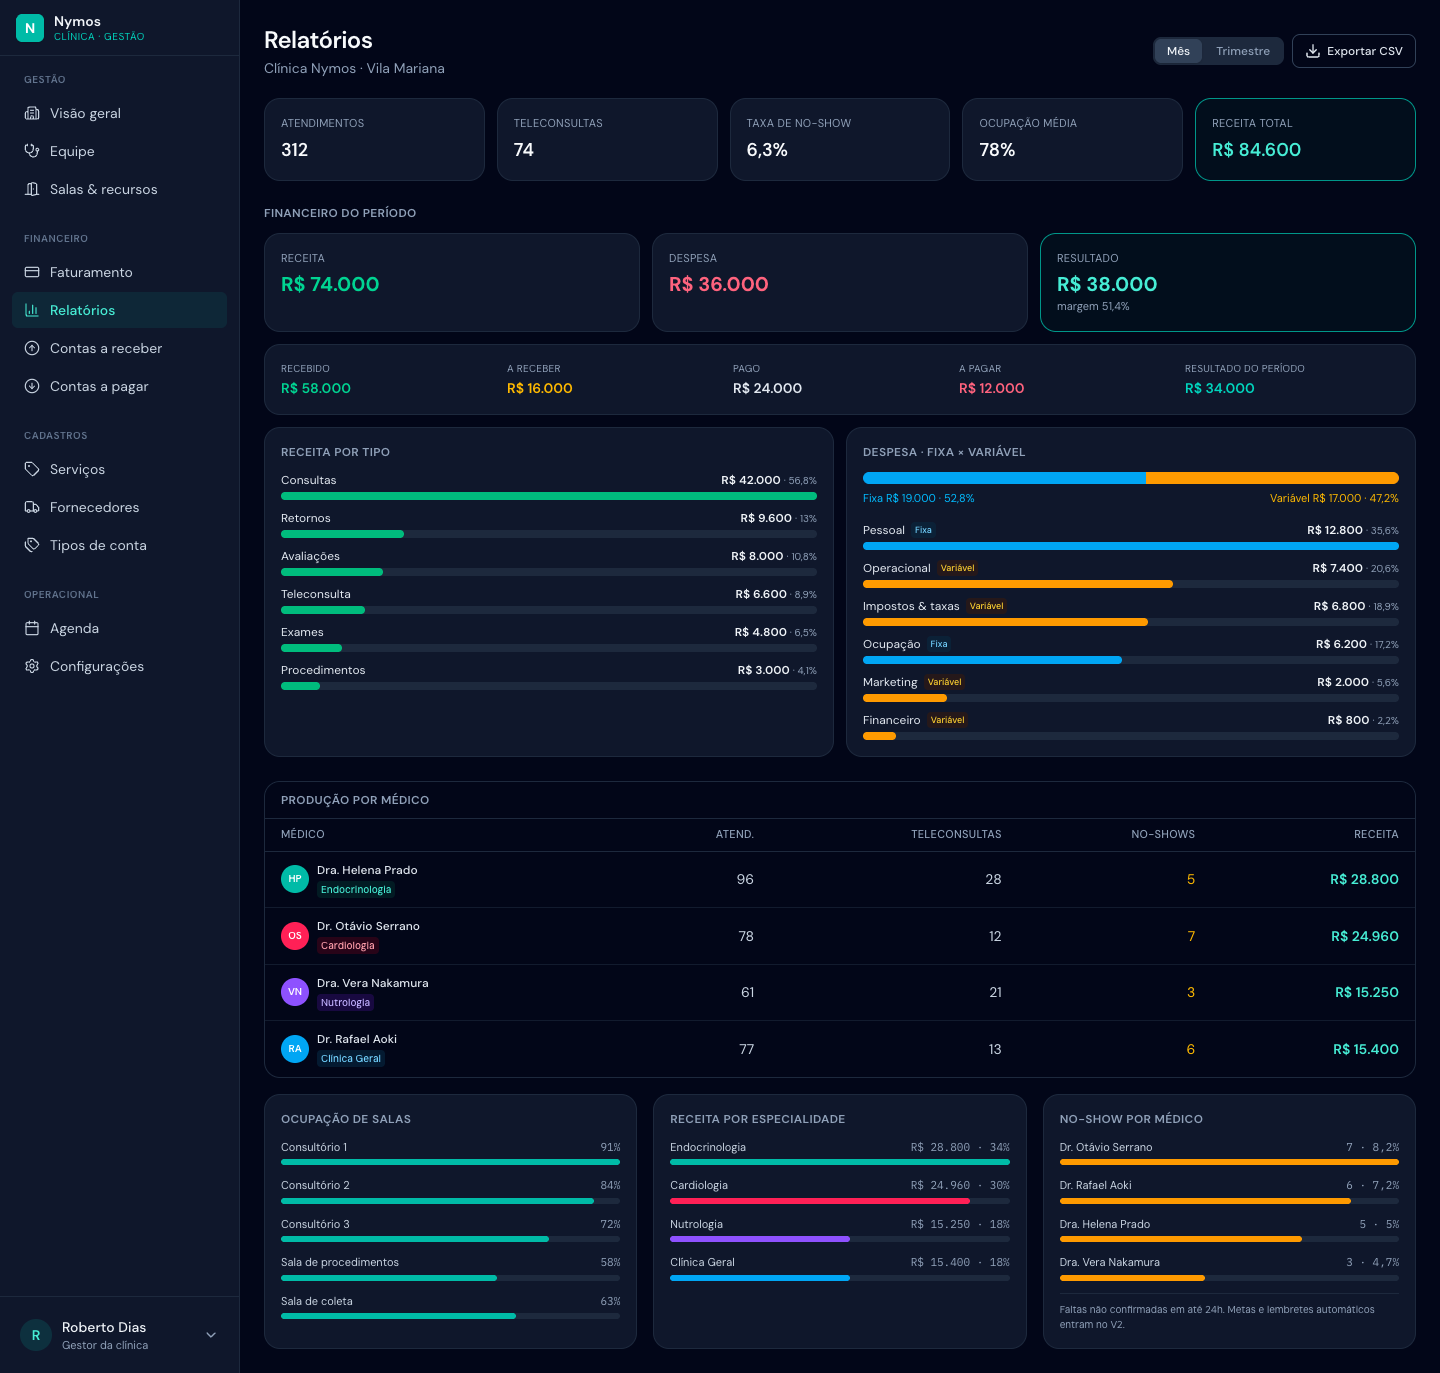
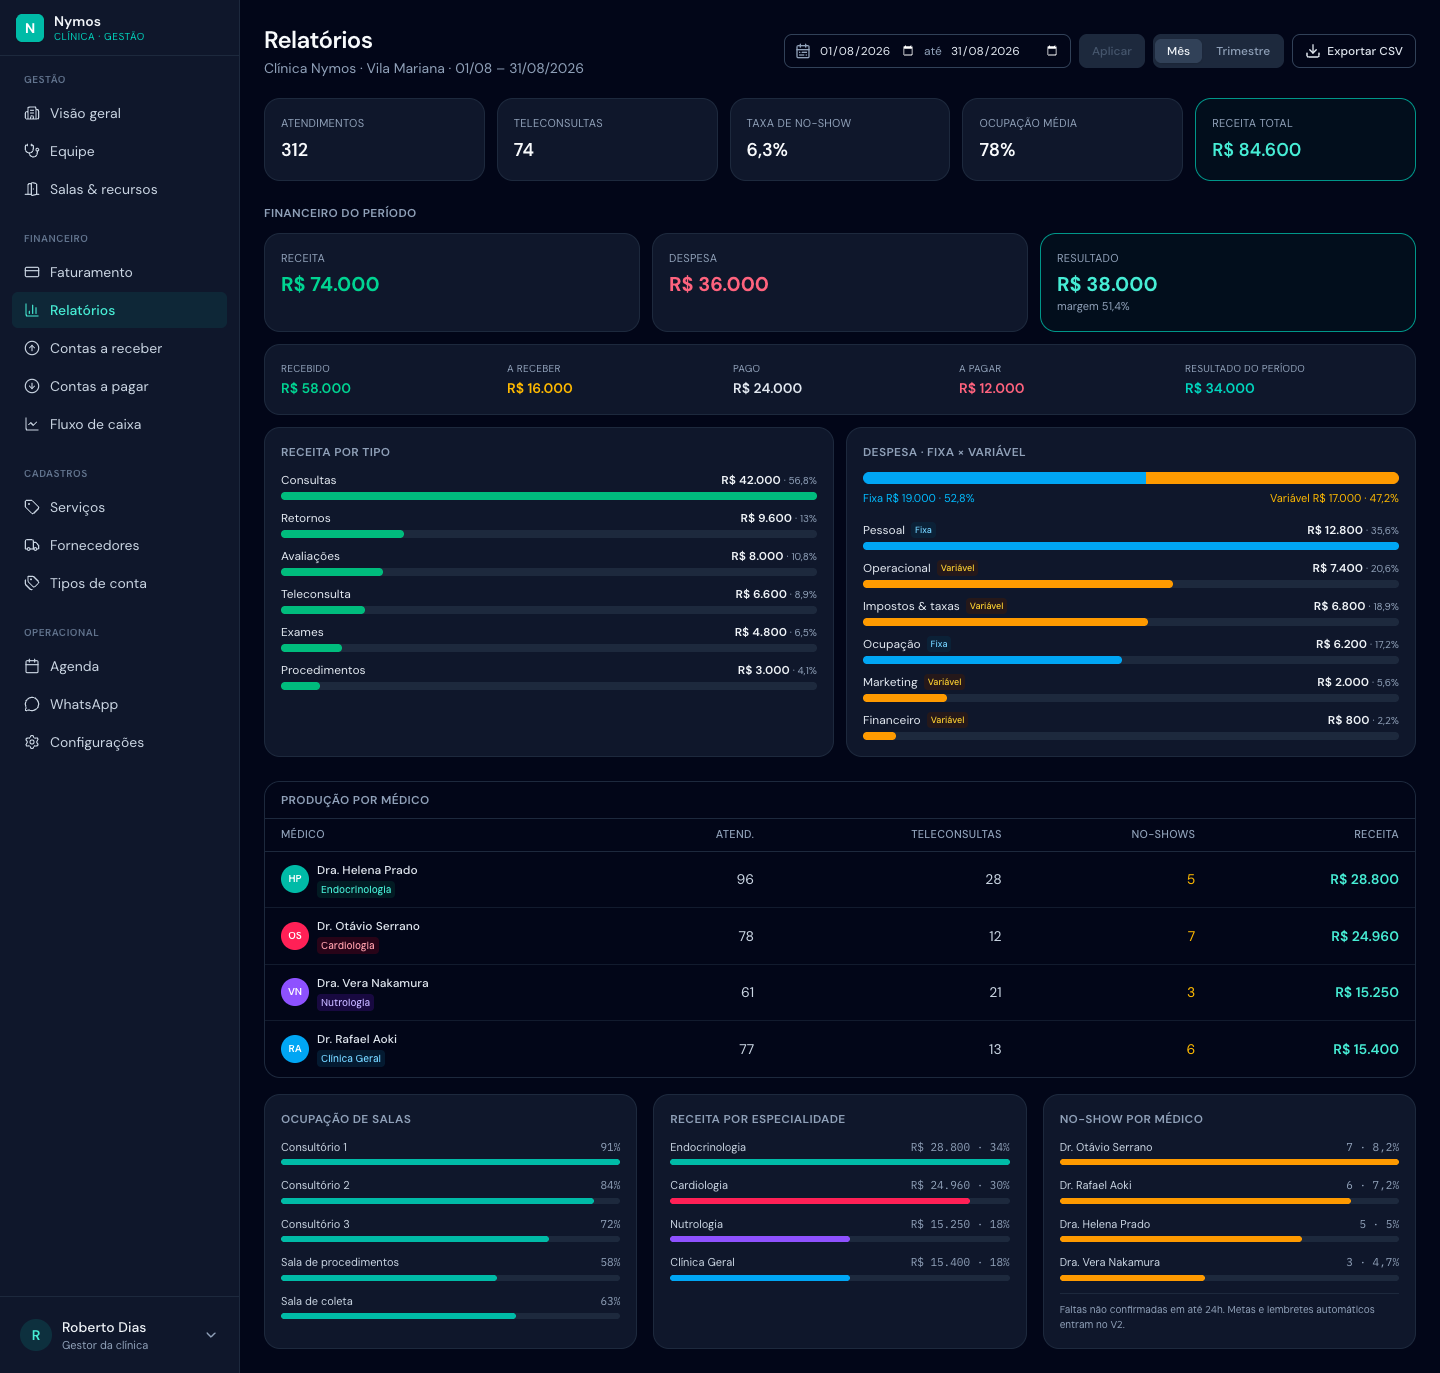
feat(clinic/relatorios): filtro de intervalo de datas, com 'personalizado' desmarcando mês/trimestre

diff --git a/src/sections-clinic/relatorios/components/IntervaloFiltro.tsx b/src/sections-clinic/relatorios/components/IntervaloFiltro.tsx
@@ -1,0 +1,96 @@
+import { useState } from 'react'
+import { CalendarRange, X } from 'lucide-react'
+import type { IntervaloDatas } from '@/../product-clinic/sections/relatorios/types'
+
+interface Props {
+  /** Janela atualmente aplicada — mês, trimestre ou personalizada. */
+  intervalo: IntervaloDatas
+  /** True quando a janela veio deste filtro (e não do mês/trimestre). */
+  personalizado: boolean
+  onAplicar: (de: string, ate: string) => void
+  onLimpar: () => void
+}
+
+/**
+ * Filtro de datas do relatório. Fica antes do mês/trimestre porque é a janela
+ * mais específica: aplicar aqui desliga os atalhos de período.
+ *
+ * Remontado pelo pai (via `key`) quando o intervalo muda por fora, para que os
+ * inputs sigam o período escolhido no toggle.
+ */
+export function IntervaloFiltro({ intervalo, personalizado, onAplicar, onLimpar }: Props) {
+  const [de, setDe] = useState(intervalo.de)
+  const [ate, setAte] = useState(intervalo.ate)
+
+  const invertido = !!de && !!ate && ate < de
+  const incompleto = !de || !ate
+  const inalterado = de === intervalo.de && ate === intervalo.ate
+  const podeAplicar = !invertido && !incompleto && !inalterado
+
+  const inputBase =
+    'bg-transparent text-xs text-slate-700 outline-none dark:text-slate-200 [color-scheme:light] dark:[color-scheme:dark]'
+
+  return (
+    <div className="flex flex-col gap-1">
+      <div className="flex items-center gap-2">
+        <div
+          className={`flex h-[34px] items-center gap-2 rounded-lg border px-2.5 ${
+            invertido
+              ? 'border-rose-400 dark:border-rose-500'
+              : 'border-slate-200 dark:border-slate-700'
+          }`}
+        >
+          <CalendarRange className="h-4 w-4 shrink-0 text-slate-400" />
+          <label className="sr-only" htmlFor="rel-de">
+            Data inicial
+          </label>
+          <input
+            id="rel-de"
+            type="date"
+            value={de}
+            max={ate || undefined}
+            onChange={(e) => setDe(e.target.value)}
+            className={inputBase}
+          />
+          <span className="text-xs text-slate-400">até</span>
+          <label className="sr-only" htmlFor="rel-ate">
+            Data final
+          </label>
+          <input
+            id="rel-ate"
+            type="date"
+            value={ate}
+            min={de || undefined}
+            onChange={(e) => setAte(e.target.value)}
+            className={inputBase}
+          />
+        </div>
+
+        <button
+          onClick={() => onAplicar(de, ate)}
+          disabled={!podeAplicar}
+          className="h-[34px] rounded-lg border border-transparent bg-teal-600 px-3 text-xs font-medium text-white transition-colors hover:bg-teal-700 disabled:cursor-not-allowed disabled:bg-slate-200 disabled:text-slate-400 dark:disabled:bg-slate-800 dark:disabled:text-slate-600"
+        >
+          Aplicar
+        </button>
+
+        {personalizado && (
+          <button
+            onClick={onLimpar}
+            title="Voltar ao período do mês"
+            className="inline-flex h-[34px] items-center gap-1 rounded-lg border border-teal-200 bg-teal-50 px-2.5 text-xs font-medium text-teal-700 hover:bg-teal-100 dark:border-teal-900 dark:bg-teal-950/40 dark:text-teal-300 dark:hover:bg-teal-950/70"
+          >
+            Personalizado
+            <X className="h-3 w-3" />
+          </button>
+        )}
+      </div>
+
+      {invertido && (
+        <p className="text-[11px] text-rose-600 dark:text-rose-400">
+          A data final é anterior à inicial.
+        </p>
+      )}
+    </div>
+  )
+}

diff --git a/src/sections-clinic/relatorios/components/RelatoriosView.tsx b/src/sections-clinic/relatorios/components/RelatoriosView.tsx
@@ -4,16 +4,18 @@ import type {
   ProducaoMedico,
   RelatoriosData,
 } from '@/../product-clinic/sections/relatorios/types'
-import { AVATAR_COR, BADGE_COR, BAR_COR, brl, pct } from './helpers'
+import { AVATAR_COR, BADGE_COR, BAR_COR, brl, intervaloLabel, pct } from './helpers'
+import { IntervaloFiltro } from './IntervaloFiltro'
 
 interface Props {
   dados: RelatoriosData
   onPeriodo: (p: Periodo) => void
+  onIntervalo: (de: string, ate: string) => void
   onExportar: () => void
   onLinhaClick: (m: ProducaoMedico) => void
 }
 
-export function RelatoriosView({ dados, onPeriodo, onExportar, onLinhaClick }: Props) {
+export function RelatoriosView({ dados, onPeriodo, onIntervalo, onExportar, onLinhaClick }: Props) {
   const maxSala = Math.max(...dados.salas.map((s) => s.pct))
   const maxEsp = Math.max(...dados.porEspecialidade.map((e) => e.pct))
   const maxNoShow = Math.max(...dados.noShow.map((n) => n.quantidade))
@@ -31,10 +33,20 @@ export function RelatoriosView({ dados, onPeriodo, onExportar, onLinhaClick }: P
       <div className="flex flex-col gap-3 sm:flex-row sm:items-center sm:justify-between">
         <div>
           <h1 className="text-2xl font-semibold text-slate-900 dark:text-slate-50">Relatórios</h1>
-          <p className="mt-0.5 text-sm text-slate-500 dark:text-slate-400">{dados.clinica}</p>
+          <p className="mt-0.5 text-sm text-slate-500 dark:text-slate-400">
+            {dados.clinica} · {intervaloLabel(dados.intervalo.de, dados.intervalo.ate)}
+          </p>
         </div>
-        <div className="flex items-center gap-2">
-          <div className="flex items-center gap-0.5 rounded-lg bg-slate-100 p-0.5 dark:bg-slate-800">
+        <div className="flex flex-wrap items-start gap-2">
+          {/* Datas primeiro: é a janela mais específica, e aplicá-la desliga mês/trimestre */}
+          <IntervaloFiltro
+            key={`${dados.intervalo.de}-${dados.intervalo.ate}`}
+            intervalo={dados.intervalo}
+            personalizado={dados.periodo === 'personalizado'}
+            onAplicar={onIntervalo}
+            onLimpar={() => onPeriodo('mes')}
+          />
+          <div className="flex h-[34px] items-center gap-0.5 rounded-lg bg-slate-100 p-0.5 dark:bg-slate-800">
             {(['mes', 'trimestre'] as Periodo[]).map((p) => (
               <button
                 key={p}

diff --git a/src/sections-clinic/relatorios/Relatorios.tsx b/src/sections-clinic/relatorios/Relatorios.tsx
@@ -1,7 +1,18 @@
 import { useState } from 'react'
 import data from '@/../product-clinic/sections/relatorios/data.json'
-import type { Periodo, RelatoriosData } from '@/../product-clinic/sections/relatorios/types'
+import type {
+  IntervaloDatas,
+  Periodo,
+  RelatoriosData,
+} from '@/../product-clinic/sections/relatorios/types'
 import { RelatoriosView } from './components'
+import { intervaloLabel } from './components/helpers'
+
+/** Janela canônica de cada atalho de período (protótipo: ancorado em ago/2026). */
+const INTERVALO_POR_PERIODO: Record<'mes' | 'trimestre', IntervaloDatas> = {
+  mes: { de: '2026-08-01', ate: '2026-08-31' },
+  trimestre: { de: '2026-06-01', ate: '2026-08-31' },
+}
 
 interface Toast {
   id: number
@@ -12,6 +23,7 @@ let toastSeq = 0
 export default function RelatoriosPreview() {
   const base = data as unknown as RelatoriosData
   const [periodo, setPeriodo] = useState<Periodo>(base.periodo)
+  const [intervalo, setIntervalo] = useState<IntervaloDatas>(base.intervalo)
   const [toasts, setToasts] = useState<Toast[]>([])
 
   const pushToast = (texto: string) => {
@@ -23,10 +35,16 @@ export default function RelatoriosPreview() {
   return (
     <>
       <RelatoriosView
-        dados={{ ...base, periodo }}
+        dados={{ ...base, periodo, intervalo }}
         onPeriodo={(p) => {
           setPeriodo(p)
+          if (p !== 'personalizado') setIntervalo(INTERVALO_POR_PERIODO[p])
           if (p !== base.periodo) pushToast('Protótipo: dados de exemplo são do mês')
+        }}
+        onIntervalo={(de, ate) => {
+          setPeriodo('personalizado')
+          setIntervalo({ de, ate })
+          pushToast(`Período ${intervaloLabel(de, ate)} · protótipo: números seguem os do mês`)
         }}
         onExportar={() => pushToast('CSV do relatório gerado (mock) · pronto para a planilha')}
         onLinhaClick={(m) => pushToast(`${m.nome} · ${m.atendimentos} atend. · ${m.noShows} no-shows (resumo mock)`)}

diff --git a/src/sections-clinic/relatorios/components/helpers.ts b/src/sections-clinic/relatorios/components/helpers.ts
@@ -38,6 +38,24 @@ export function brl(valor: number): string {
   })
 }
 
+/**
+ * "2026-08-01" → "01/08/2026".
+ * Fatia a string em vez de usar `new Date(iso)`: o construtor interpreta
+ * `yyyy-mm-dd` como UTC e, em BRT, devolveria o dia anterior.
+ */
+export function dataBR(iso: string): string {
+  const [a, m, d] = iso.split('-')
+  return a && m && d ? `${d}/${m}/${a}` : iso
+}
+
+/** "01/08 – 31/08/2026" — omite o ano da ponta esquerda quando é o mesmo. */
+export function intervaloLabel(de: string, ate: string): string {
+  const [anoDe] = de.split('-')
+  const [anoAte] = ate.split('-')
+  const esquerda = anoDe === anoAte ? dataBR(de).slice(0, 5) : dataBR(de)
+  return `${esquerda} – ${dataBR(ate)}`
+}
+
 /** 8,2 → "8,2%" (1 casa, sem casa quando inteiro). */
 export function pct(valor: number): string {
   const s = Number.isInteger(valor) ? String(valor) : valor.toFixed(1).replace('.', ',')

diff --git a/product-clinic/sections/relatorios/types.ts b/product-clinic/sections/relatorios/types.ts
@@ -1,5 +1,11 @@
 export type CorEspecialidade = 'teal' | 'rose' | 'violet' | 'slate' | 'sky' | 'amber'
-export type Periodo = 'mes' | 'trimestre'
+export type Periodo = 'mes' | 'trimestre' | 'personalizado'
+
+/** Janela de datas do relatório. Datas em ISO `yyyy-mm-dd`, ambas inclusivas. */
+export interface IntervaloDatas {
+  de: string
+  ate: string
+}
 
 export interface KpiRelatorio {
   id: string
@@ -81,6 +87,11 @@ export interface DespesaPorGrupo {
 export interface RelatoriosData {
   clinica: string
   periodo: Periodo
+  /**
+   * Janela efetivamente exibida. Mês/trimestre a derivam; `personalizado` vem
+   * do filtro de datas. É sempre a fonte da verdade do que os números cobrem.
+   */
+  intervalo: IntervaloDatas
   kpis: KpiRelatorio[]
   producao: ProducaoMedico[]
   salas: OcupacaoSala[]

diff --git a/src/sections-clinic/relatorios/components/index.ts b/src/sections-clinic/relatorios/components/index.ts
@@ -1,1 +1,2 @@
 export { RelatoriosView } from './RelatoriosView'
+export { IntervaloFiltro } from './IntervaloFiltro'

diff --git a/product-clinic/sections/relatorios/spec.md b/product-clinic/sections/relatorios/spec.md
@@ -8,10 +8,19 @@ O painel de **relatórios gerenciais** da clínica para o **Admin/Gestor** — i
 ### Ver os relatórios do período
 - Admin abre Relatórios → KPIs (total de atendimentos, taxa de no-show, ocupação média de salas, receita total) do período
 - Alterna período (mês/trimestre)
+- Ou define um **intervalo de datas** (de/até) no topo, antes do mês/trimestre — aplicar troca o período para `personalizado` e desmarca os atalhos
 - Vê a tabela de **produção por médico**: atendimentos, teleconsultas, no-shows, receita
 - Vê a **ocupação de salas** (barra por sala)
 - Vê a **receita por especialidade** (barra com valor e %)
 - Vê o **no-show por médico** (barra com quantidade e taxa)
+
+### Filtrar por intervalo de datas
+- Preencher de/até e "Aplicar" → o subtítulo passa a mostrar a nova janela (`15/07 – 14/08/2026`)
+- Aplicado → **nem Mês nem Trimestre** ficam ativos, e surge o chip "Personalizado ×"
+- Clicar no "×" → volta ao mês, e as datas voltam à janela do mês
+- Data final anterior à inicial → erro inline e "Aplicar" desabilitado
+- Intervalo igual ao vigente, ou uma das datas vazia → "Aplicar" desabilitado
+- Alternar Mês ↔ Trimestre → os inputs se realinham à janela do atalho
 
 ### Exportar
 - "Exportar CSV" gera o relatório consolidado do período (mock) — para análise em planilha
@@ -22,7 +31,7 @@ O painel de **relatórios gerenciais** da clínica para o **Admin/Gestor** — i
 ## UI Requirements
 
 ### Layout
-- **Header**: "Relatórios" + nome da clínica + período (mês/trimestre) + "Exportar CSV"
+- **Header**: "Relatórios" + nome da clínica + janela vigente (dd/mm – dd/mm/aaaa) + **filtro de datas (de/até + Aplicar)** + período (mês/trimestre) + "Exportar CSV" — nessa ordem
 - **KPIs** (4-5): Total atendimentos, Taxa de no-show %, Ocupação média %, Receita total, Teleconsultas
 - **Produção por médico** (tabela): avatar + especialidade + atendimentos + teleconsultas + no-shows + receita
 - **Ocupação de salas**: barras por sala (nome + % ocupação)
@@ -30,6 +39,7 @@ O painel de **relatórios gerenciais** da clínica para o **Admin/Gestor** — i
 - **No-show por médico**: barras (nome + quantidade + taxa %)
 
 ### Estados & regras
+- **Intervalo de datas**: "Aplicar" só habilita com as duas datas preenchidas e diferentes da janela vigente; data final anterior à inicial bloqueia e mostra erro inline. Com `personalizado` ativo, mês/trimestre ficam sem seleção e um chip "Personalizado ×" volta para o mês
 - Percentuais (no-show, ocupação) exibidos com uma casa quando necessário
 - Valores em R$ (pt-BR)
 - Barra de no-show usa tom âmbar/rose (alerta); ocupação e receita usam teal
